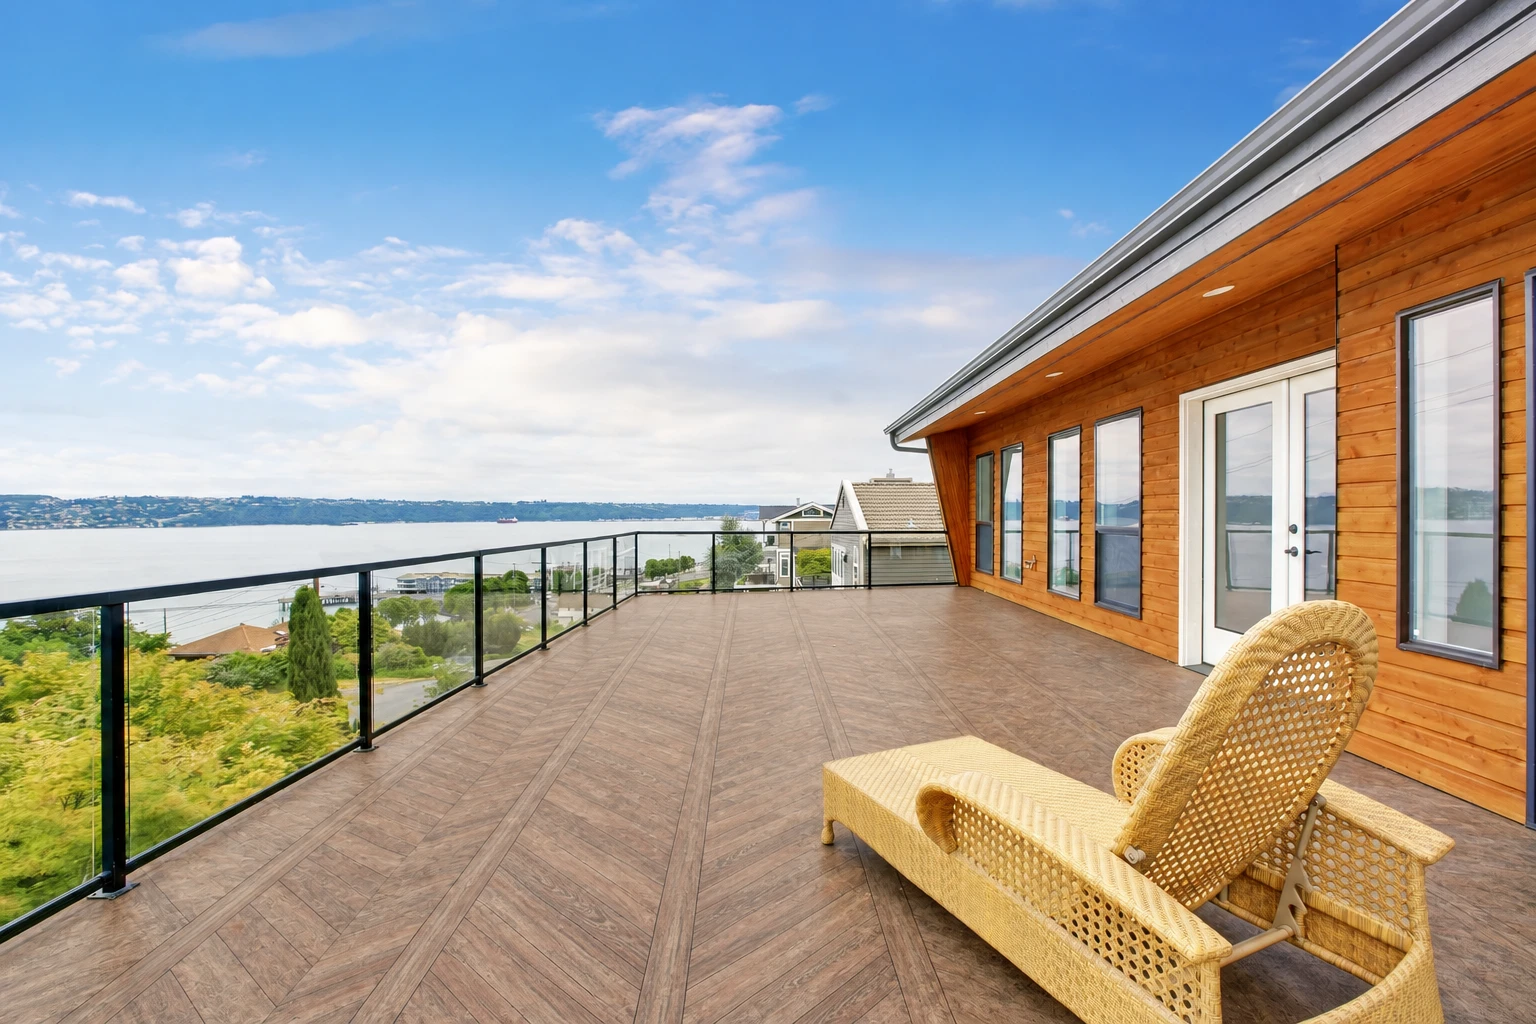
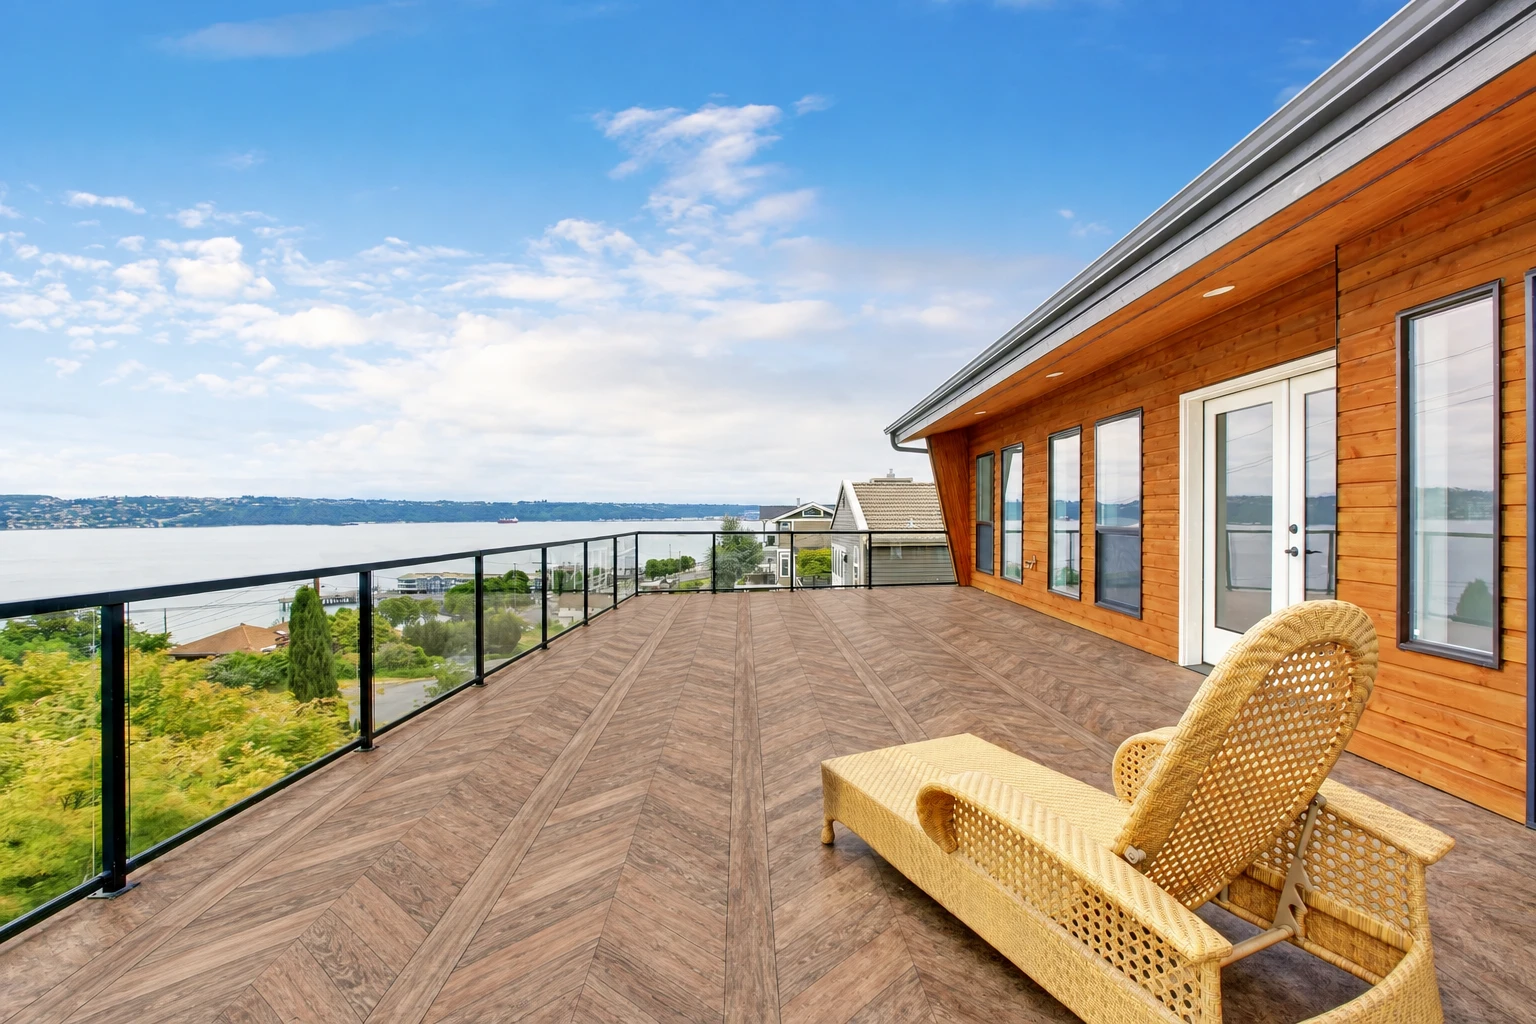
Keep chevron boards distinct; picket spacing as a scale anchor (v6.2)
Hansberry's chevron is carried by board-to-board colour contrast, not
by seam lines like Boardwalk's, and "even and consistent" (a leftover
from the speckle-only days) was averaging that contrast into one muddy
wash on all three decks. Consistency now applies to scale only, the
prompt asks for crisp joints and per-board colour, and Hansberry's
hint describes its tan/red-brown mix outright.

The backyard deck kept over-scaling chevrons; railing pickets at ~4in
join the generic anchors and its two chevron renders re-rolled at the
right density. Hansberry re-rendered on all three decks.

Claude-Session: https://claude.ai/code/session_01SVhYAzLJg2j87BMan4pPy8

diff --git a/src/lib/visualizer/prompt.ts b/src/lib/visualizer/prompt.ts
@@ -42,9 +42,16 @@
  * deck with steps), which v3 had stopped. The scale sentence now says
  * "across the deck floor only" and the stairs rule is harder: no
  * membrane on any step, the sheet stops at the top edge of the stairs.
+ *
+ * v6.2: Hansberry's chevron is carried by board-to-board colour contrast
+ * (pale tan next to deep red-brown), not by seam lines like Boardwalk's,
+ * and "even and consistent" was averaging that contrast into one muddy
+ * wash — the chevron survived only as faint streaks. Consistency now
+ * applies to scale, and a design's hint may describe how its boards
+ * differ from each other.
  */
 const SCALE_ANCHORS =
-  "For scale, use what is in the photo: an exterior door is about 36 inches (0.9 m) wide, a railing is 36 to 42 inches (1 m) tall, a lounge chair is about 6 feet (1.8 m) long. Image 2 is a small sample, not the whole floor: a typical deck floor is two to four roll widths across and shows the pattern repeated many times, across the deck floor only.";
+  "For scale, use what is in the photo: an exterior door is about 36 inches (0.9 m) wide, a railing is 36 to 42 inches (1 m) tall with its pickets about 4 inches (10 cm) apart, a lounge chair is about 6 feet (1.8 m) long. Image 2 is a small sample, not the whole floor: a typical deck floor is two to four roll widths across and shows the pattern repeated many times, across the deck floor only.";
 
 /** The tuned prompt with the design's own measured sizes spliced in */
 export function buildGenerationPrompt(scaleHint?: string): string {
@@ -57,4 +64,4 @@ export function buildGenerationPrompt(scaleHint?: string): string {
 /** Template. Callers should use buildGenerationPrompt(); the bare
  *  template still works as a fallback because {SCALE} sits inside a
  *  sentence that reads fine without it. */
-export const GENERATION_PROMPT = `Image 1 is a photo of a deck. Image 2 is a section of vinyl decking membrane exactly one roll wide: the long edge of Image 2 is 6 feet (1.8 m) of real membrane, so every plank width, chevron, and speckle in it is shown at true scale. Vinyl decking is a continuous waterproof sheet that gets installed on top of the existing deck floor, completely covering it. Replace ONLY the deck floor surface in Image 1 with a single continuous sheet of the vinyl membrane from Image 2, as it would look after professional installation. The original deck boards, their gaps, seams, and grain must be completely hidden under the new membrane — nothing of the photo's own floor surface may show through anywhere. The new floor reads as one continuous printed sheet carrying the swatch's exact pattern: every plank line, chevron, woodgrain, or speckle on the new floor comes from the swatch's printed design and only from it, reproduced faithfully at its real-world scale. Size the pattern on the deck from that 6 foot reference: judge the deck's real dimensions from its railing, furniture, and doors, and lay the pattern so plank widths and chevron spacing are the same real size they are in Image 2. {SCALE} Continue the pattern across the whole floor the way a roll would: the same repeat at the same scale everywhere, with no enlarged, shrunken, or extra copies of any element. Everything else must stay exactly as it is: railing, house, furniture, plants, sky, shadows, and camera angle. Stairs, steps, stair treads, and stair risers are NOT part of the deck floor and must receive no membrane at all: every step stays exactly as it appears in the photo, its original wood and colour untouched, and the new sheet stops cleanly at the top edge of the stairs. Keep the deck's existing geometry and perspective exactly — the new surface lies on the same floor plane, follows the same vanishing point and angle as the original floor, and ends at the same edges; do not flatten the surface, do not introduce a second vanishing point, and do not extend the deck beyond its current edges. Match the swatch's pattern to its real-world scale, even and consistent, receding naturally with distance. Preserve the original lighting: sunlight, shadows cast onto the deck, and reflections stay in the same places, now falling on the new membrane. Reproduce the swatch's color and printed pattern faithfully. Do not add, remove, or move any objects. Output a photorealistic image that looks like the same photo taken after the vinyl membrane was installed.`;
+export const GENERATION_PROMPT = `Image 1 is a photo of a deck. Image 2 is a section of vinyl decking membrane exactly one roll wide: the long edge of Image 2 is 6 feet (1.8 m) of real membrane, so every plank width, chevron, and speckle in it is shown at true scale. Vinyl decking is a continuous waterproof sheet that gets installed on top of the existing deck floor, completely covering it. Replace ONLY the deck floor surface in Image 1 with a single continuous sheet of the vinyl membrane from Image 2, as it would look after professional installation. The original deck boards, their gaps, seams, and grain must be completely hidden under the new membrane — nothing of the photo's own floor surface may show through anywhere. The new floor reads as one continuous printed sheet carrying the swatch's exact pattern: every plank line, chevron, woodgrain, or speckle on the new floor comes from the swatch's printed design and only from it, reproduced faithfully at its real-world scale. Size the pattern on the deck from that 6 foot reference: judge the deck's real dimensions from its railing, furniture, and doors, and lay the pattern so plank widths and chevron spacing are the same real size they are in Image 2. {SCALE} Continue the pattern across the whole floor the way a roll would: the same repeat at the same scale everywhere, with no enlarged, shrunken, or extra copies of any element. Everything else must stay exactly as it is: railing, house, furniture, plants, sky, shadows, and camera angle. Stairs, steps, stair treads, and stair risers are NOT part of the deck floor and must receive no membrane at all: every step stays exactly as it appears in the photo, its original wood and colour untouched, and the new sheet stops cleanly at the top edge of the stairs. Keep the deck's existing geometry and perspective exactly — the new surface lies on the same floor plane, follows the same vanishing point and angle as the original floor, and ends at the same edges; do not flatten the surface, do not introduce a second vanishing point, and do not extend the deck beyond its current edges. Match the swatch's pattern to its real-world scale, consistent in scale across the whole floor, receding naturally with distance. Keep every board in the pattern as distinct as it is in Image 2: crisp joints between neighbouring boards, and each board keeping its own colour and grain rather than blending into the boards beside it. Preserve the original lighting: sunlight, shadows cast onto the deck, and reflections stay in the same places, now falling on the new membrane. Reproduce the swatch's color and printed pattern faithfully. Do not add, remove, or move any objects. Output a photorealistic image that looks like the same photo taken after the vinyl membrane was installed.`;

diff --git a/src/lib/designs.ts b/src/lib/designs.ts
@@ -220,7 +220,7 @@ export const DESIGNS: Design[] = [
     blurb: "Chevron planks in a cool, weathered grey-brown.",
     swatch: SWATCH("boardwalk"),
     reference: REFERENCE("boardwalk"),
-    scaleHint: "In this design the chevron boards are about 3.5 inches (9 cm) wide and a straight spine board runs every 18 inches (45 cm), so a 12 foot wide deck shows about 8 spines with chevrons between them.",
+    scaleHint: "In this design the chevron boards are about 3.5 inches (9 cm) wide and a straight spine board runs every 18 inches (45 cm), so a 12 foot wide deck shows about 8 spines with chevrons between them. The boards are a uniform weathered grey-brown with crisp joints between them.",
     tile: SWATCH("boardwalk"),
     tileTone: "#7d7063",
     tone: "#7d7063",
@@ -232,7 +232,7 @@ export const DESIGNS: Design[] = [
     blurb: "Warm chevron woodgrain with a hand-laid character.",
     swatch: SWATCH("hansberry"),
     reference: REFERENCE("hansberry"),
-    scaleHint: "In this design the chevron boards are about 3.5 inches (9 cm) wide and a straight spine board runs every 18 inches (45 cm), so a 12 foot wide deck shows about 8 spines with chevrons between them.",
+    scaleHint: "In this design the chevron boards are about 5 inches (13 cm) wide and a straight spine board runs every 18 inches (45 cm), so a 12 foot wide deck shows about 8 spines with chevrons between them. The boards deliberately differ from one another: some are pale sandy tan, some are deep reddish brown, with bold grain and clear dark joints, and that board to board contrast is the design; it must not be smoothed into one even colour.",
     tile: SWATCH("hansberry"),
     tileTone: "#8d7361",
     tone: "#8d7361",
